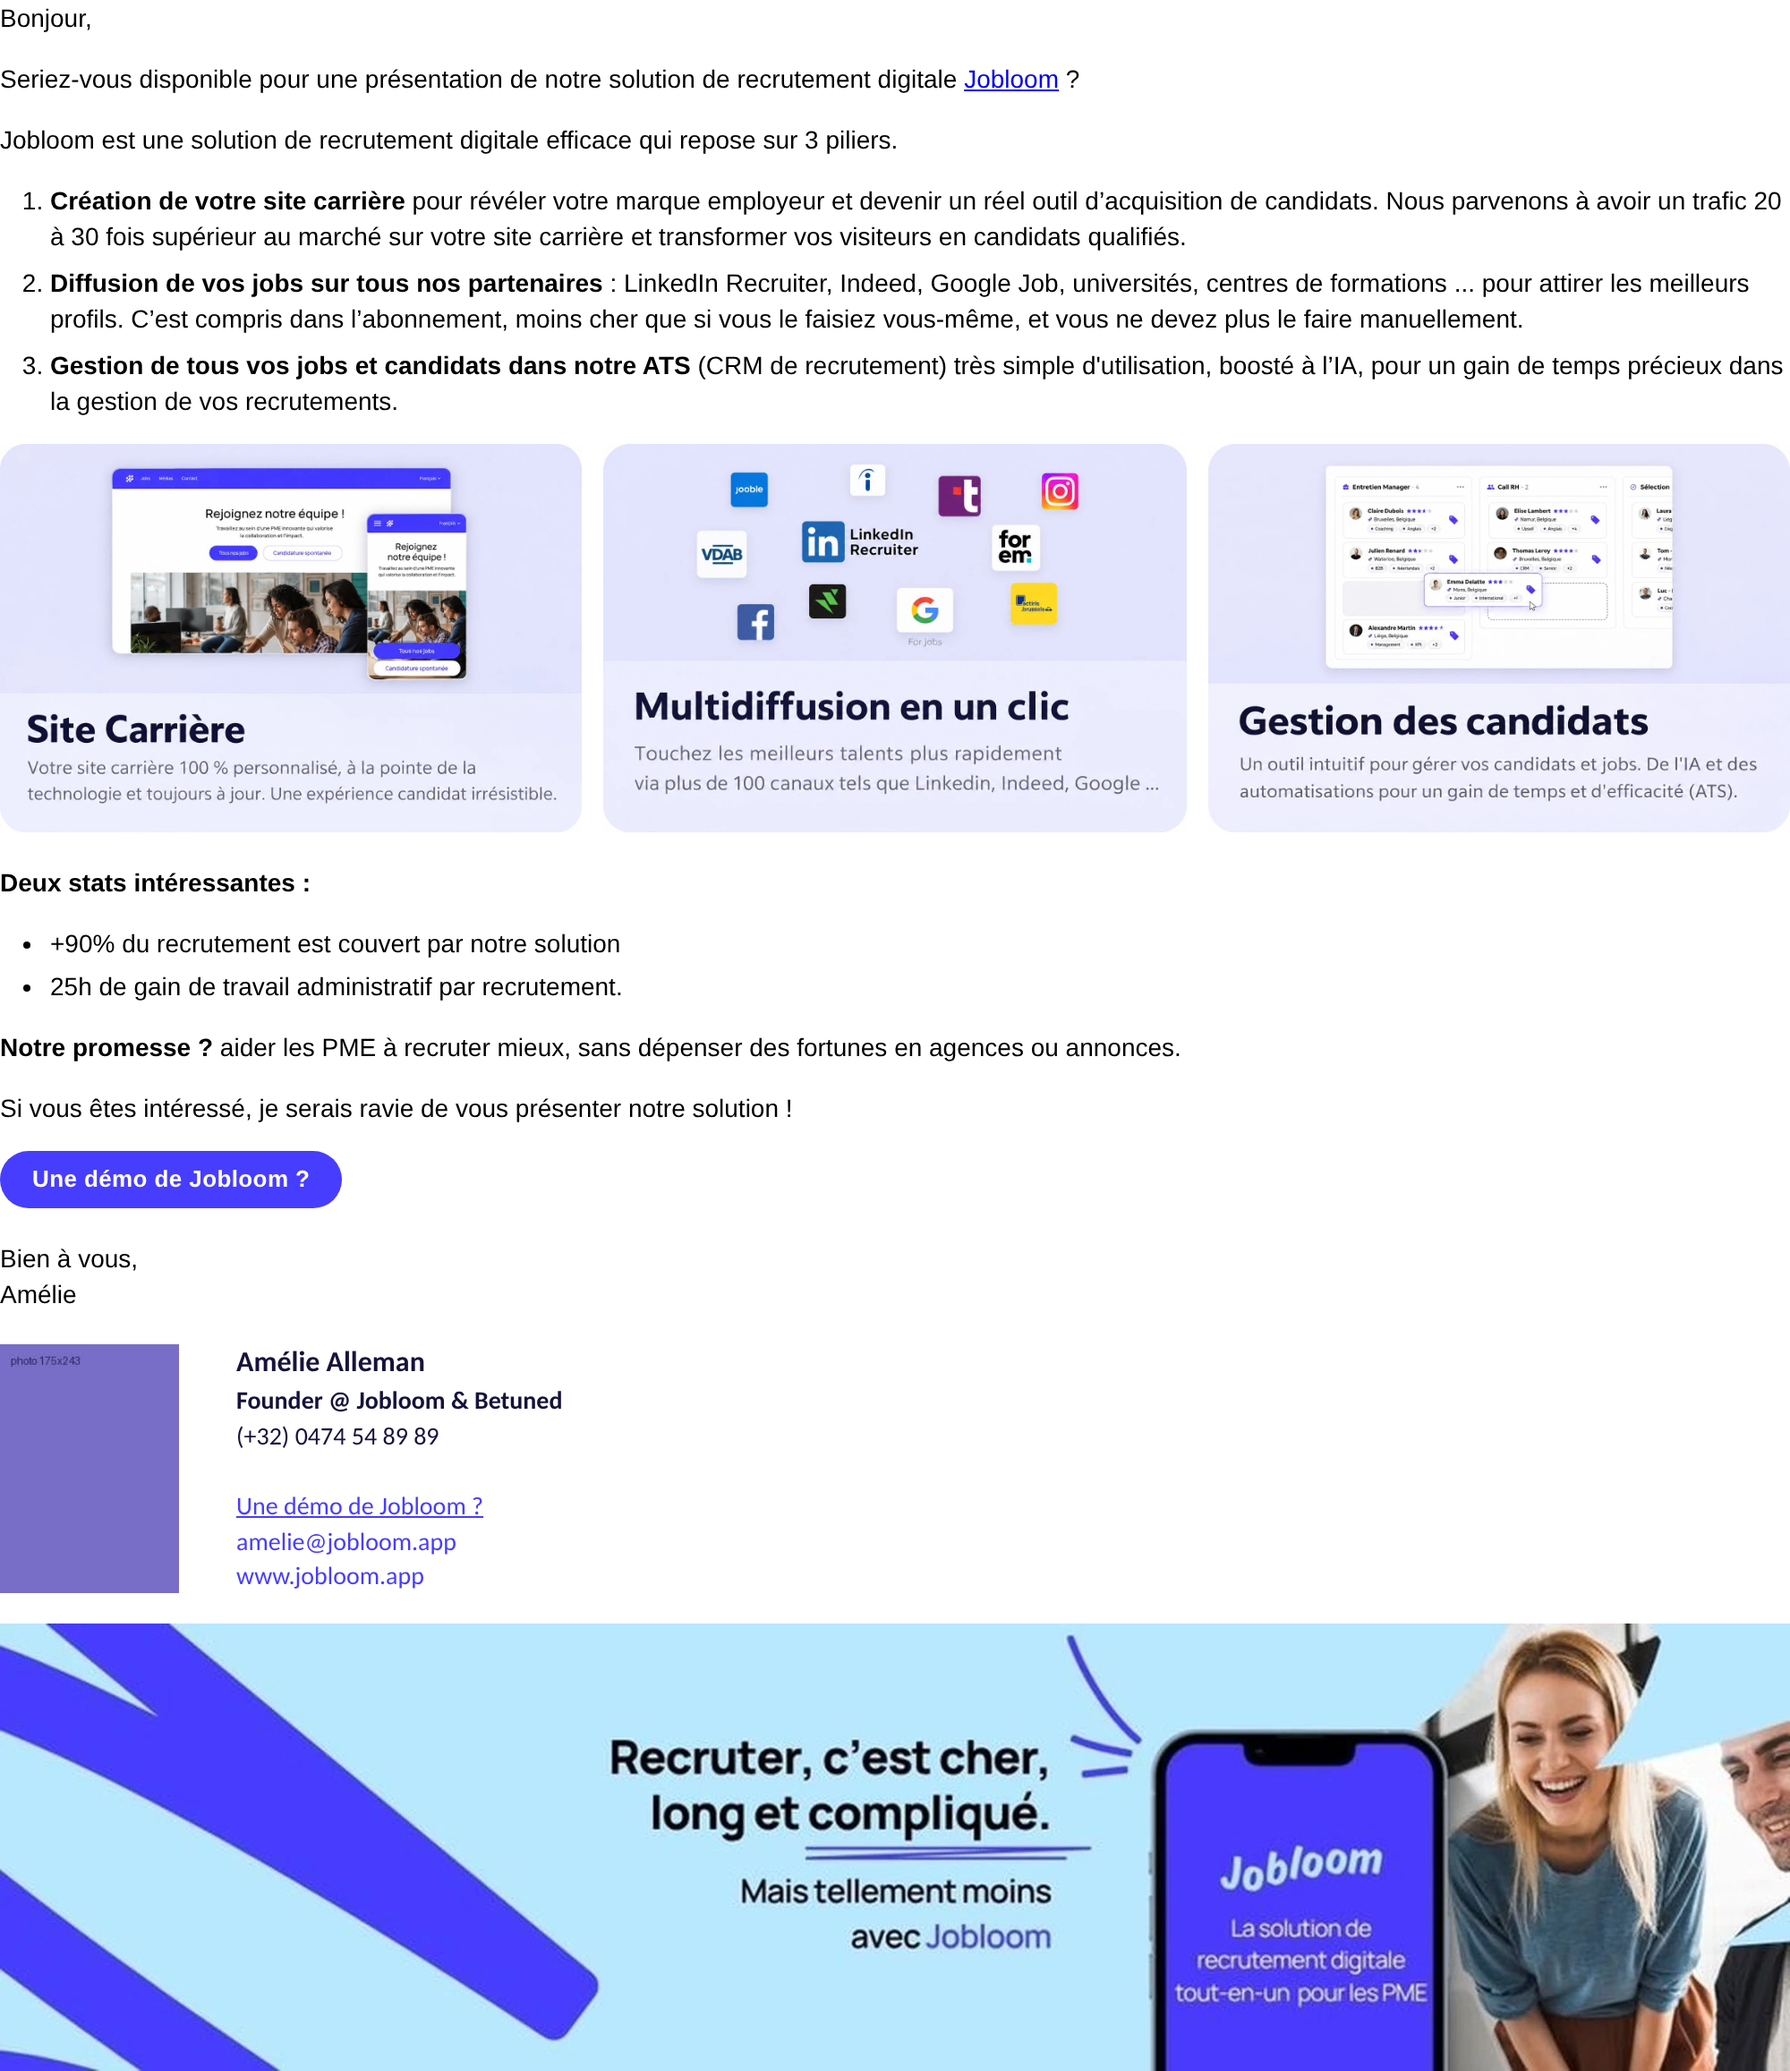
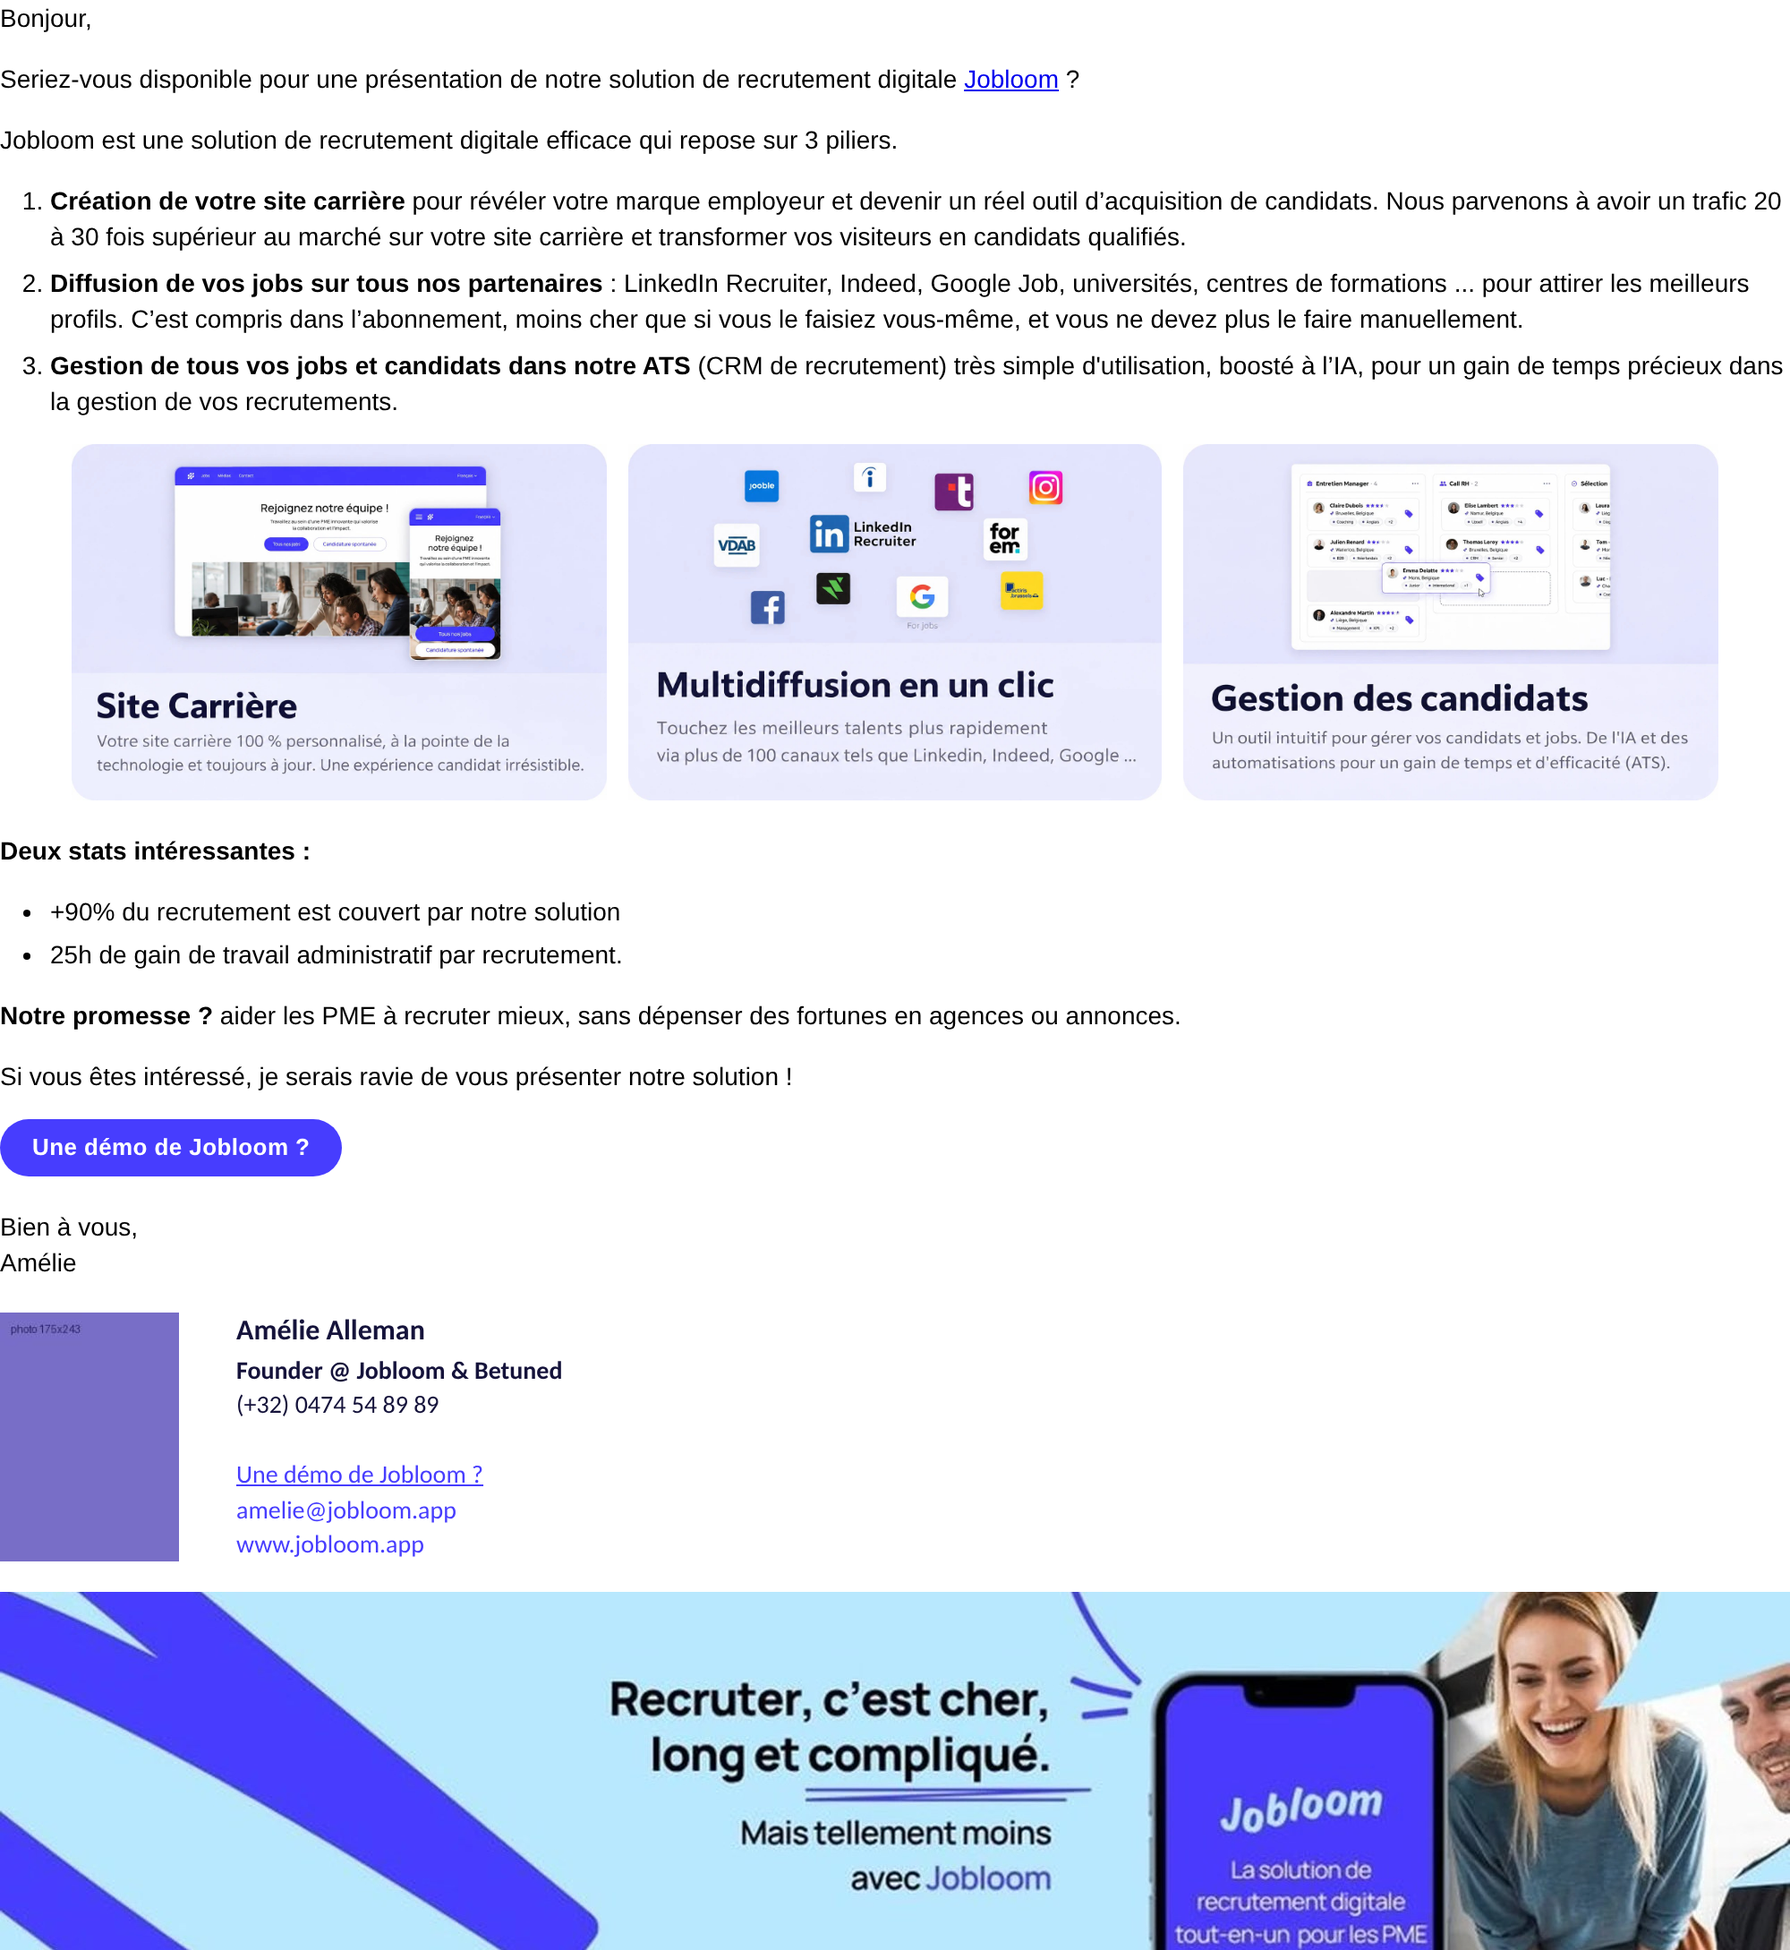
Email Amélie : bannière moins haute (2000x400), cartes à 92 % sur PC
Claude-Session: https://claude.ai/code/session_01XTeiUwKp5X2MxE8FSKHjU9

Changed region(s): [[0.0, 0.0312, 1.0, 1.0]]

diff --git a/email-livrable/email_1st_Amelie_final.html b/email-livrable/email_1st_Amelie_final.html
@@ -19,6 +19,7 @@ li{margin-left:0 !important;}</style>
   .wrap{padding:0 !important;}
   .txt{font-size:15px !important;line-height:22px !important;}
   .list{padding-left:20px !important;}
+  .cards{width:100% !important;}
   .cardtd{padding:0 3px !important;}
   .sig-photo{width:84px !important;padding-right:12px !important;}
   .sig-img{width:72px !important;height:100px !important;}
@@ -39,7 +40,7 @@ li{margin-left:0 !important;}</style>
 <li style="margin:0 0 6px 0"><b>Diffusion de vos jobs sur tous nos partenaires&nbsp;</b>: LinkedIn Recruiter, Indeed, Google Job, universités, centres de formations ... pour attirer les meilleurs profils. C’est compris dans l’abonnement, moins cher que si vous le faisiez vous-même, et vous ne devez plus le faire manuellement.</li>
 <li style="margin:0"><b>Gestion de tous vos jobs et candidats dans notre ATS</b> (CRM de recrutement) très simple d'utilisation, boosté à l’IA, pour un gain de temps précieux dans la gestion de vos recrutements.</li>
 </ol>
-<table role="presentation" class="cards" cellpadding="0" cellspacing="0" border="0" width="100%" align="center" style="border-collapse:collapse;width:100%;margin:4px auto 18px auto"><tr><td class="cardtd" width="33%" valign="top" style="width:33.33%;padding:0 8px 0 0"><a href="https://www.jobloom.app/" style="text-decoration:none"><!--[if mso]><img src="https://jobloom-landing-pages-massimoharnisfeger-hues-projects.vercel.app/signature/pilier-1.jpg" width="258" height="172" alt="Site Carrière" style="display:block;width:258px;height:172px;border:0"><![endif]--><!--[if !mso]><!--><img src="https://jobloom-landing-pages-massimoharnisfeger-hues-projects.vercel.app/signature/pilier-1.jpg" width="1536" height="1024" alt="Site Carrière" style="display:block;width:100%;max-width:512px;height:auto;border:0"><!--<![endif]--></a></td><td class="cardtd" width="33%" valign="top" style="width:33.33%;padding:0 4px"><a href="https://www.jobloom.app/" style="text-decoration:none"><!--[if mso]><img src="https://jobloom-landing-pages-massimoharnisfeger-hues-projects.vercel.app/signature/pilier-2.jpg" width="258" height="172" alt="Multidiffusion en un clic" style="display:block;width:258px;height:172px;border:0"><![endif]--><!--[if !mso]><!--><img src="https://jobloom-landing-pages-massimoharnisfeger-hues-projects.vercel.app/signature/pilier-2.jpg" width="1536" height="1024" alt="Multidiffusion en un clic" style="display:block;width:100%;max-width:512px;height:auto;border:0"><!--<![endif]--></a></td><td class="cardtd" width="33%" valign="top" style="width:33.33%;padding:0 0 0 8px"><a href="https://www.jobloom.app/" style="text-decoration:none"><!--[if mso]><img src="https://jobloom-landing-pages-massimoharnisfeger-hues-projects.vercel.app/signature/pilier-3.jpg" width="258" height="172" alt="Gestion des candidats" style="display:block;width:258px;height:172px;border:0"><![endif]--><!--[if !mso]><!--><img src="https://jobloom-landing-pages-massimoharnisfeger-hues-projects.vercel.app/signature/pilier-3.jpg" width="1536" height="1024" alt="Gestion des candidats" style="display:block;width:100%;max-width:512px;height:auto;border:0"><!--<![endif]--></a></td></tr></table>
+<table role="presentation" class="cards" cellpadding="0" cellspacing="0" border="0" width="92%" align="center" style="border-collapse:collapse;width:92%;margin:4px auto 18px auto"><tr><td class="cardtd" width="33%" valign="top" style="width:33.33%;padding:0 8px 0 0"><a href="https://www.jobloom.app/" style="text-decoration:none"><!--[if mso]><img src="https://jobloom-landing-pages-massimoharnisfeger-hues-projects.vercel.app/signature/pilier-1.jpg" width="258" height="172" alt="Site Carrière" style="display:block;width:258px;height:172px;border:0"><![endif]--><!--[if !mso]><!--><img src="https://jobloom-landing-pages-massimoharnisfeger-hues-projects.vercel.app/signature/pilier-1.jpg" width="1536" height="1024" alt="Site Carrière" style="display:block;width:100%;max-width:512px;height:auto;border:0"><!--<![endif]--></a></td><td class="cardtd" width="33%" valign="top" style="width:33.33%;padding:0 4px"><a href="https://www.jobloom.app/" style="text-decoration:none"><!--[if mso]><img src="https://jobloom-landing-pages-massimoharnisfeger-hues-projects.vercel.app/signature/pilier-2.jpg" width="258" height="172" alt="Multidiffusion en un clic" style="display:block;width:258px;height:172px;border:0"><![endif]--><!--[if !mso]><!--><img src="https://jobloom-landing-pages-massimoharnisfeger-hues-projects.vercel.app/signature/pilier-2.jpg" width="1536" height="1024" alt="Multidiffusion en un clic" style="display:block;width:100%;max-width:512px;height:auto;border:0"><!--<![endif]--></a></td><td class="cardtd" width="33%" valign="top" style="width:33.33%;padding:0 0 0 8px"><a href="https://www.jobloom.app/" style="text-decoration:none"><!--[if mso]><img src="https://jobloom-landing-pages-massimoharnisfeger-hues-projects.vercel.app/signature/pilier-3.jpg" width="258" height="172" alt="Gestion des candidats" style="display:block;width:258px;height:172px;border:0"><![endif]--><!--[if !mso]><!--><img src="https://jobloom-landing-pages-massimoharnisfeger-hues-projects.vercel.app/signature/pilier-3.jpg" width="1536" height="1024" alt="Gestion des candidats" style="display:block;width:100%;max-width:512px;height:auto;border:0"><!--<![endif]--></a></td></tr></table>
 <p style="margin:0 0 14px 0"><b>Deux stats intéressantes&nbsp;:</b></p>
 <ul class="list" style="margin:0 0 14px 0;padding-left:28px">
 <li style="margin:0 0 4px 0">+90% du recrutement est couvert par notre solution</li>
@@ -73,8 +74,8 @@ li{margin-left:0 !important;}</style>
 </tr>
 </table>
 <table role="presentation" cellpadding="0" cellspacing="0" border="0" width="100%" style="border-collapse:collapse;width:100%;margin:16px 0 0 0"><tr><td align="center" style="padding:0"><a href="https://www.jobloom.app/agenda" style="text-decoration:none">
-<!--[if mso]><img src="https://jobloom-landing-pages-massimoharnisfeger-hues-projects.vercel.app/signature/banniere-jobloom.jpg" width="800" height="200" alt="Recruter, c'est cher, long et compliqué. Mais tellement moins avec Jobloom" style="display:block;width:800px;height:200px;border:0"><![endif]-->
-<!--[if !mso]><!--><img src="https://jobloom-landing-pages-massimoharnisfeger-hues-projects.vercel.app/signature/banniere-jobloom.jpg" width="2000" height="500" alt="Recruter, c'est cher, long et compliqué. Mais tellement moins avec Jobloom" style="display:block;width:100%;height:auto;border:0;margin:0 auto"><!--<![endif]-->
+<!--[if mso]><img src="https://jobloom-landing-pages-massimoharnisfeger-hues-projects.vercel.app/signature/banniere-jobloom.jpg" width="800" height="160" alt="Recruter, c'est cher, long et compliqué. Mais tellement moins avec Jobloom" style="display:block;width:800px;height:160px;border:0"><![endif]-->
+<!--[if !mso]><!--><img src="https://jobloom-landing-pages-massimoharnisfeger-hues-projects.vercel.app/signature/banniere-jobloom.jpg" width="2000" height="400" alt="Recruter, c'est cher, long et compliqué. Mais tellement moins avec Jobloom" style="display:block;width:100%;height:auto;border:0;margin:0 auto"><!--<![endif]-->
 </a></td></tr></table>
 </div>
 <!--[if mso]></td></tr></table><![endif]-->
